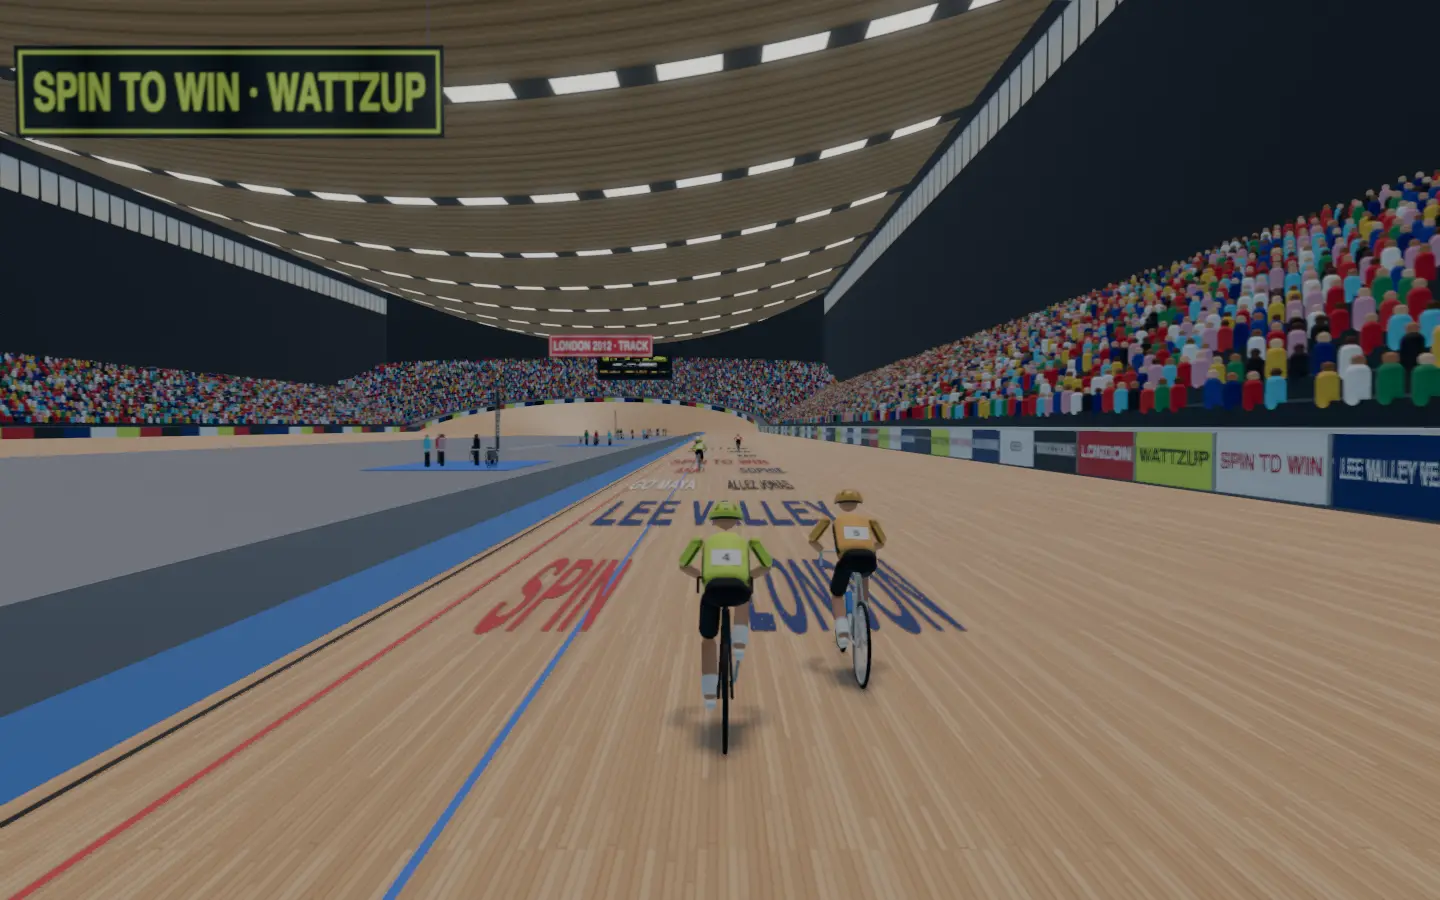
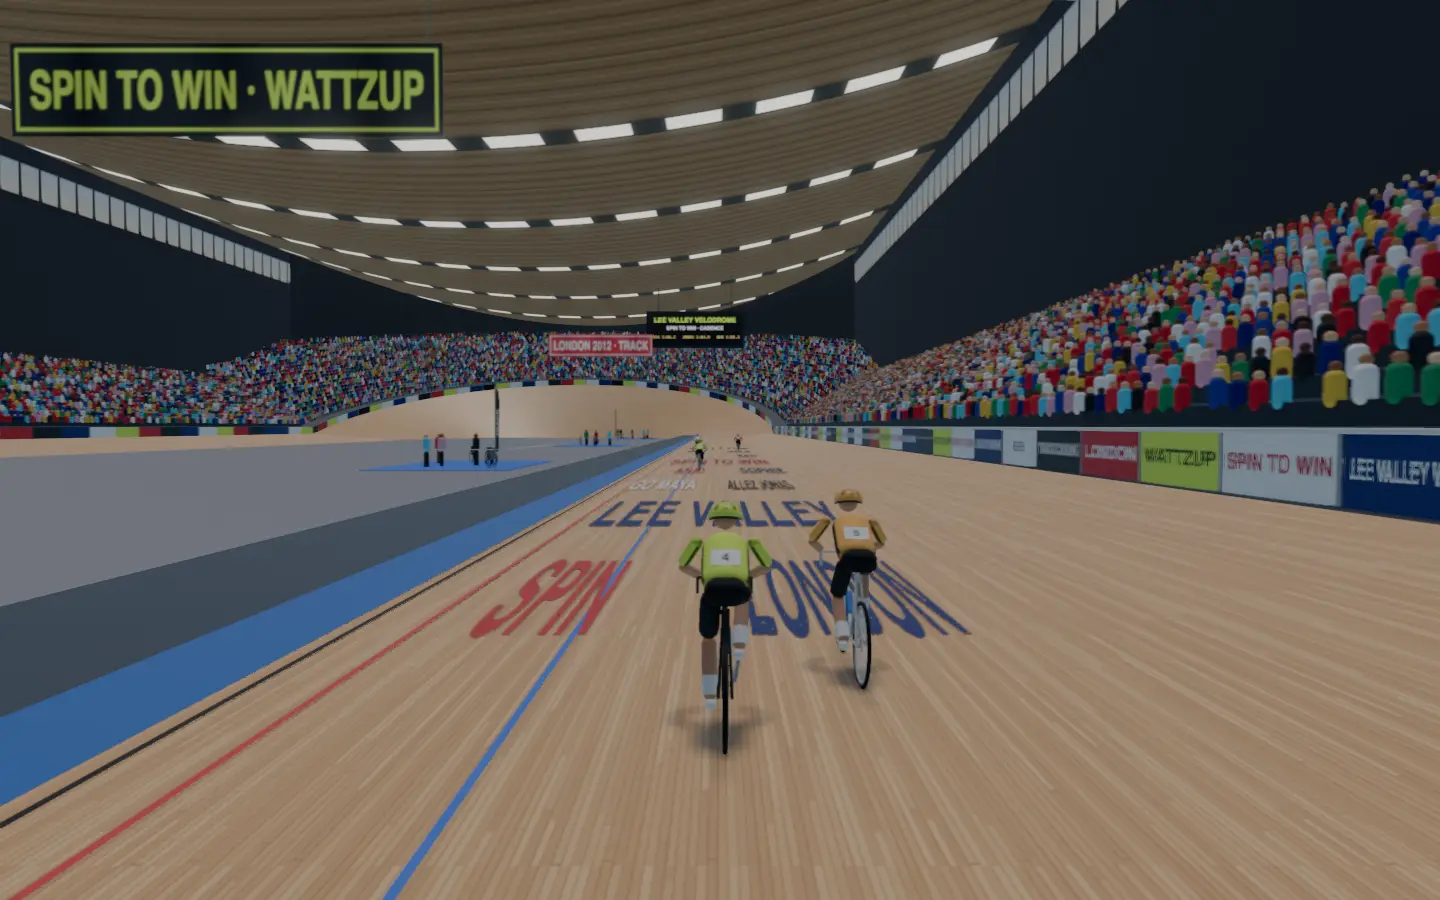
Steepen Lee Valley's bend and bring it closer, the scoreboard over it

diff --git a/frontend/projects/wattzup/src/app/core/world-velodrome.ts b/frontend/projects/wattzup/src/app/core/world-velodrome.ts
@@ -51,18 +51,20 @@ const RISE = 1;
 const R_IN = 22;
 const R_OUT = R_IN + OUTER + INNER;
 const BEND_X = -INNER - R_IN;
-const BANK = 8;
+const BANK = 10;
 /** The stands: rows deep, each row this deep and this much higher, from the walkway behind the fence. */
 const ROWS = 14;
 const ROW_DEPTH = 0.85;
 const ROW_RISE = 0.5;
 const STAND_CHUNK = 50;
+/** The scoreboard hangs over the track's inner edge where the bend begins. */
+const SCORE_X = -INNER;
 /** The roof's height over the infield, and the hall's side walls. */
 const ROOF = 24;
 const WALL_RIGHT = OUTER + 1.6 + ROWS * ROW_DEPTH + 2.5;
 const WALL_LEFT = 2 * BEND_X - WALL_RIGHT;
 /** The bend stands this far ahead, closing the hall. */
-const AHEAD = 150;
+const AHEAD = 110;
 /** The roof's height at x: highest at the side walls, sagging over the infield. */
 const roofAt = (x: number) => ROOF + 0.0035 * (x - BEND_X) ** 2;
 
@@ -623,8 +625,8 @@ export class VelodromeStreet implements SceneStreet {
     // The scoreboard hung over the infield before the bend.
     const b = new BoxBuilder();
     const steel = this.material({ color: 0x2a2e36, metalness: 0.5, roughness: 0.4 });
-    b.box(steel, [16, 6, 1.2], [BEND_X + 8, 15, -12]);
-    for (const dx of [-6, 6]) b.box(steel, [0.15, 9, 0.15], [BEND_X + 8 + dx, 22.5, -12]);
+    b.box(steel, [16, 6, 1.2], [SCORE_X, 18, -14]);
+    for (const dx of [-6, 6]) b.box(steel, [0.15, 6, 0.15], [SCORE_X + dx, 24, -14]);
     h.add(b.build(this.disposables));
     const screen = this.track(scoreboardTexture());
     const face = new Mesh(
@@ -632,7 +634,7 @@ export class VelodromeStreet implements SceneStreet {
       this.material({ map: screen, emissive: 0xffffff, emissiveMap: screen, emissiveIntensity: 1 }),
     );
     this.disposables.push(face.geometry);
-    face.position.set(BEND_X + 8, 15, -11.38);
+    face.position.set(SCORE_X, 18, -13.38);
     h.add(face);
   }
 

diff --git a/docs/class-worlds.md b/docs/class-worlds.md
@@ -58,7 +58,7 @@ Every class in `frontend/public/classes.json`, with its World Ride scene. Render
 | 52 | Sprint Into the Effort | Dubai Marina | 80% | The marina walk runs along the water at dusk between the glass towers of Dubai Marina, superyachts moored at the pontoons and palms in their planters, as a crowd in white kandura and bright summer colours lines the barriers and the twisting Cayan Tower glows against the orange and violet sky ahead. The two minutes' warm-up rolls out under the first sprint banner, the half-minute sprints flash past the yachts at full gas, and the three-minute efforts hold the pace past the lit cafés of the podium before the easy minutes spin beneath the towers. |
 | 53 | 20/40 Interval Session | Sea Point, Cape Town | 74% | Promenade beneath Lion's Head and Table Mountain, Atlantic waves rolling in. |
 | 54 | Time to Spin Out | Overseas Highway (concept) |  | Turquoise water on both sides along the Florida Keys' Seven Mile Bridge. |
-| 55 | Spin to Win Cadence Session | Lee Valley Velodrome | 74% | The pale pine boards of London's Olympic velodrome sweep up into the steep banked bends under the bright arena lights and the curved timber roof, as the packed stands roar above the fence and the teams wait with their bikes in the infield. The minute's warm-up rolls round the black line, the one-minute efforts lift the cadence up the banking toward the stayers' line, and the long efforts of three and a half minutes hold the spin down the straights before the easy minutes drop back to the blue band. |
+| 55 | Spin to Win Cadence Session | Lee Valley Velodrome | 77% | The pale pine boards of London's Olympic velodrome sweep up into the steep banked bends under the bright arena lights and the curved timber roof, as the packed stands roar above the fence and the teams wait with their bikes in the infield. The minute's warm-up rolls round the black line, the one-minute efforts lift the cadence up the banking toward the stayers' line, and the long efforts of three and a half minutes hold the spin down the straights before the easy minutes drop back to the blue band. |
 | 56 | High Intensity, Short Rest | Montreal Jazz Fest | 72% | Downtown stages and street crowds in summer; short rests between sets. |
 | 57 | Full Gas Sprints | Isle of Man Mountain Course (concept) |  | Stone walls and Snaefell's mountain road on the famous motorcycle course. |
 | 58 | Spin to Win | Coney Island Boardwalk (concept) |  | Wooden boardwalk, roller coaster and Wonder Wheel on the Brooklyn shore. |

diff --git a/docs/detailed-designs/world-ride/draw-class-scene/README.md b/docs/detailed-designs/world-ride/draw-class-scene/README.md
@@ -550,7 +550,7 @@ None.
   - the stands above the fence: fourteen stepped rows of dark seats, a spectator (the kit's figures) in nearly every one in GB red, white and blue and club colours, facing the boards;
   - the infield: the teams' pens on blue floor behind a low rail, bikes and spare wheels, the staff, and the kit's feather flags in the teams' colours, and across it the back straight's banked boards, its fence and its own packed stands;
   - the hall: the curved timber roof sagging over the infield and rising to the side walls, rows of arena lights along it, the walls behind the stands with the concourse's glazed band, slid along as the rider rides;
-  - ahead, closing the hall, the bend: the boards sweeping round to the left and up from 1 m on the straight to 8 m at the apex, the blue band and the three lines round its foot, the fence and its boards round its top, twenty-two rows of packed stands rising behind it to the roof, and the scoreboard hung over the infield before it. Everything along the track is hidden past 170 m.
+  - ahead, 110 m off and closing the hall, the bend: the boards sweeping round to the left and up from 1 m on the straight to 10 m at the apex, near the real track's 42°, the blue band and the three lines round its foot, the fence and its boards round its top, twenty-two rows of packed stands rising behind it to the roof, and the scoreboard hung high over the track's inner edge where the bend begins, at the end of the straight. Everything along the track is hidden past 130 m.
 
   `lay`, `place` and `setTime` recycle it along a 250 m loop, the track's own length.
 
